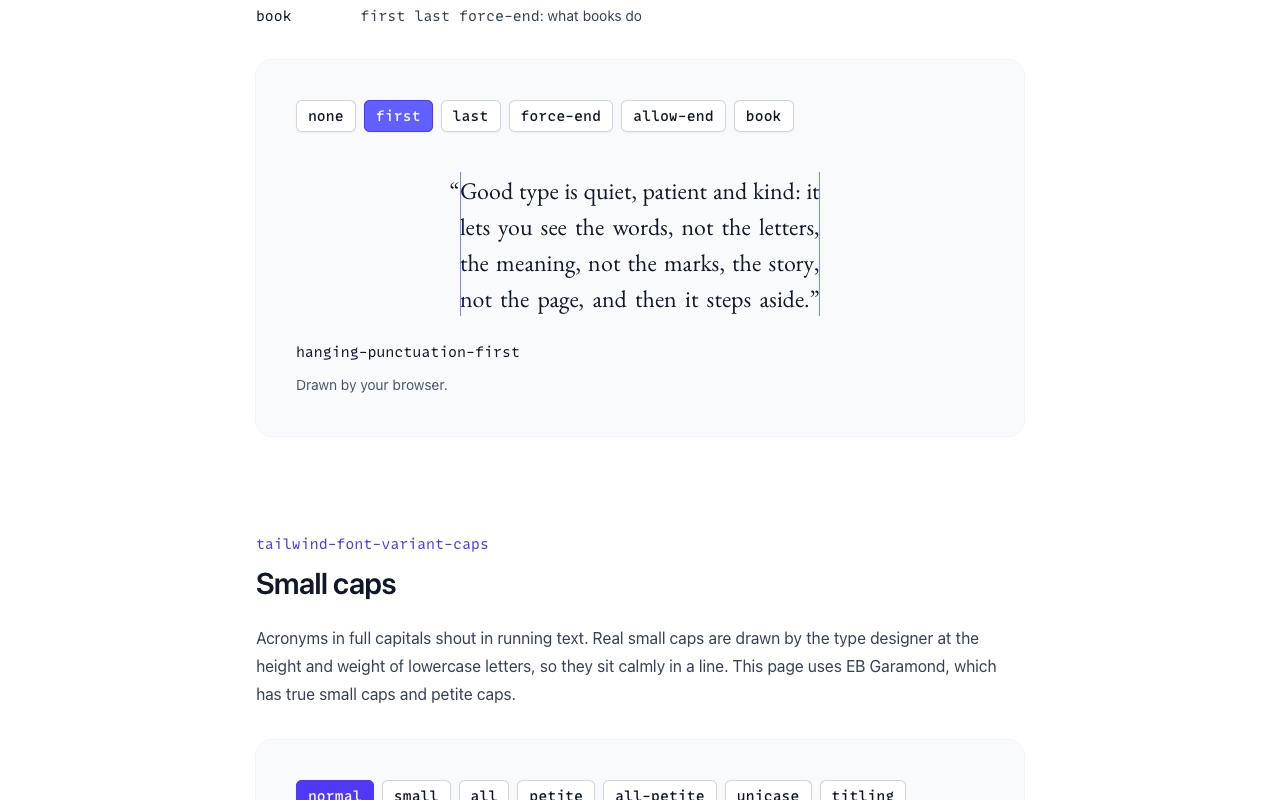
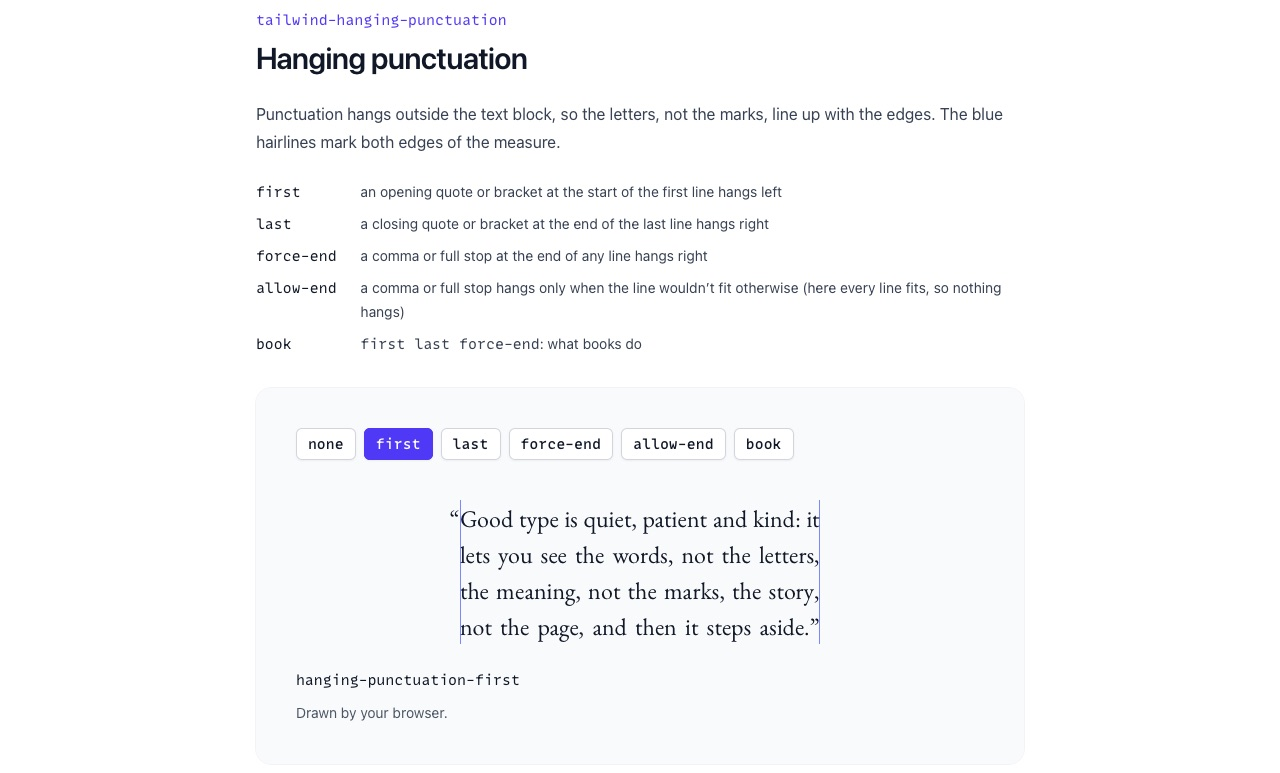
README screenshots start at each section boundary

diff --git a/README.md b/README.md
@@ -11,7 +11,7 @@ Best in Safari: today it is the only browser that draws hanging punctuation.
 
 <!-- Happy-path video: drag /private/tmp/claude-501/-Users-alex-Downloads-github/eba4b07d-fb10-47d6-8ce4-42740ad111e8/scratchpad/media/tailwind-typography-extras/happy-path.mp4 onto this line in the GitHub editor -->
 
-<img src=".github/readme/02-hanging.jpg" width="49%" alt="The hanging-punctuation demo: the opening quote hangs outside the text block"> <img src=".github/readme/04-drop-cap.jpg" width="49%" alt="The drop-cap demo: a three-line initial letter set by the browser">
+<img src=".github/readme/02-hanging.jpg" width="32%" alt="The hanging-punctuation demo: the opening quote hangs outside the text block"> <img src=".github/readme/03-small-caps.jpg" width="32%" alt="The small-caps demo: ESA and NASA in true small capitals"> <img src=".github/readme/04-drop-cap.jpg" width="32%" alt="The drop-cap demo: a three-line initial letter set by the browser">
 
 </div>
 
